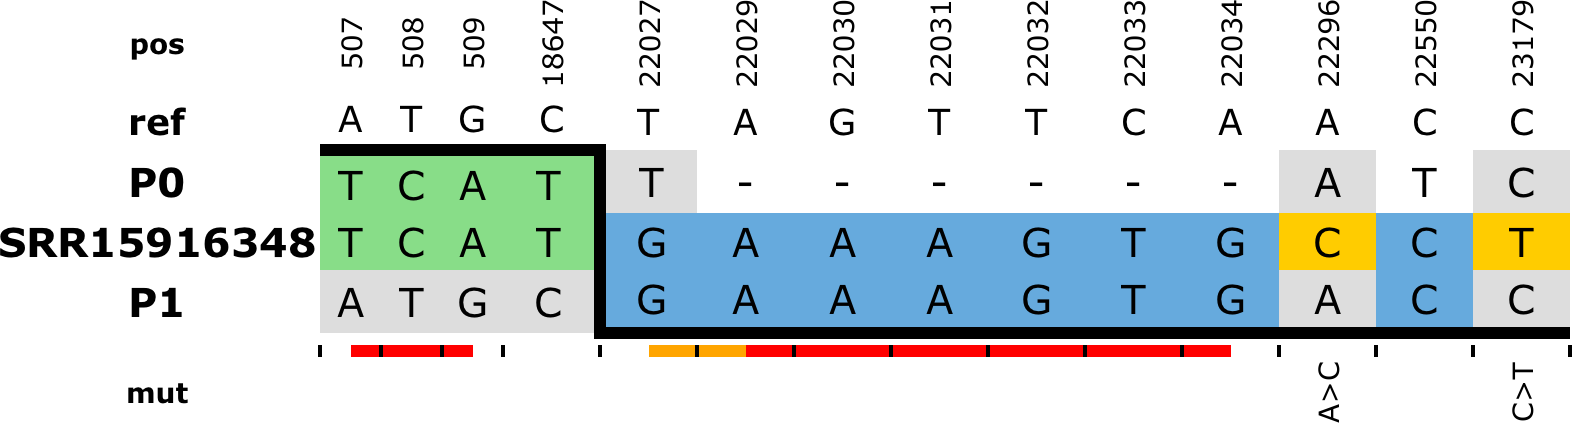
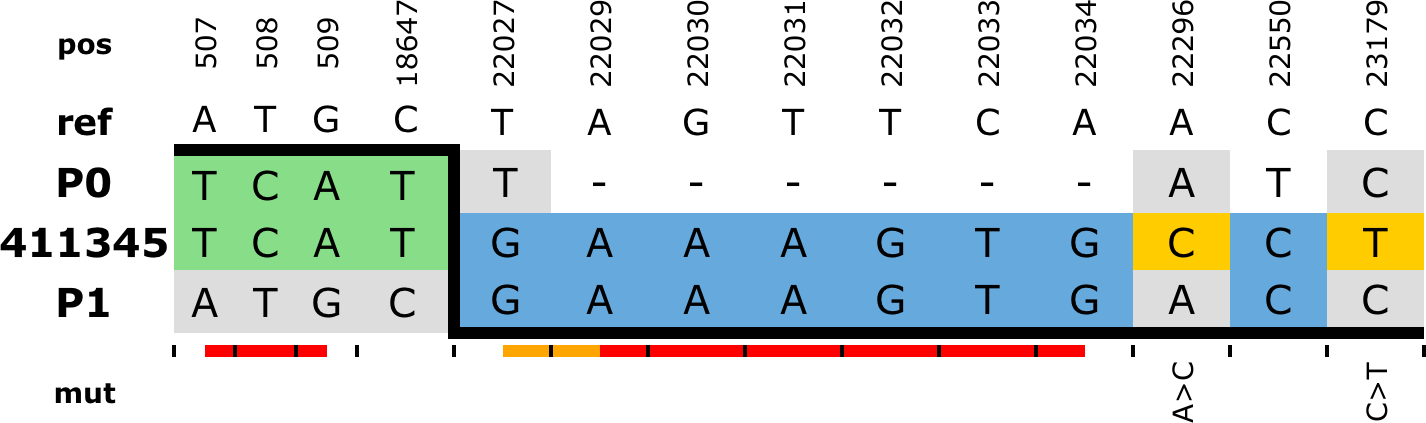
Label copying patterns with node IDs

diff --git a/src/save_copying_patterns.py b/src/save_copying_patterns.py
@@ -71,7 +71,15 @@ def save_copying_pattern_image(node_id, label, ts, save_dir, zoom=None,**kwargs)
 
 for u, label in tqdm(pangoX_RE_node_labels().items()):
     save_copying_pattern_image(
-       u, label, ts, png_dir, hide_extra_rows=True, hide_labels=True, show_bases=None, font_family='Verdana')
+       u,
+       label,
+       ts,
+       png_dir,
+        hide_extra_rows=True,
+        hide_labels=True,
+        show_bases=None,
+       font_family='Verdana',
+    )
 
 for u, lab in tqdm([
     (427863, "RE_node-QCpass-427863"),  # Q1
@@ -80,5 +88,14 @@ for u, lab in tqdm([
     (663484, "RE_node-QCfail-663484"),  # Q4
 ]):
     save_copying_pattern_image(
-        u, lab, ts, png_dir, hide_extra_rows=False, hide_labels=True, show_bases=True, zoom=4, font_family='Verdana'
+        u,
+        lab,
+        ts,
+        png_dir,
+        hide_extra_rows=False,
+        hide_labels=False,
+        show_bases=True,
+        child_label=f"{u}",
+        zoom=4,
+        font_family='Verdana',
     )
